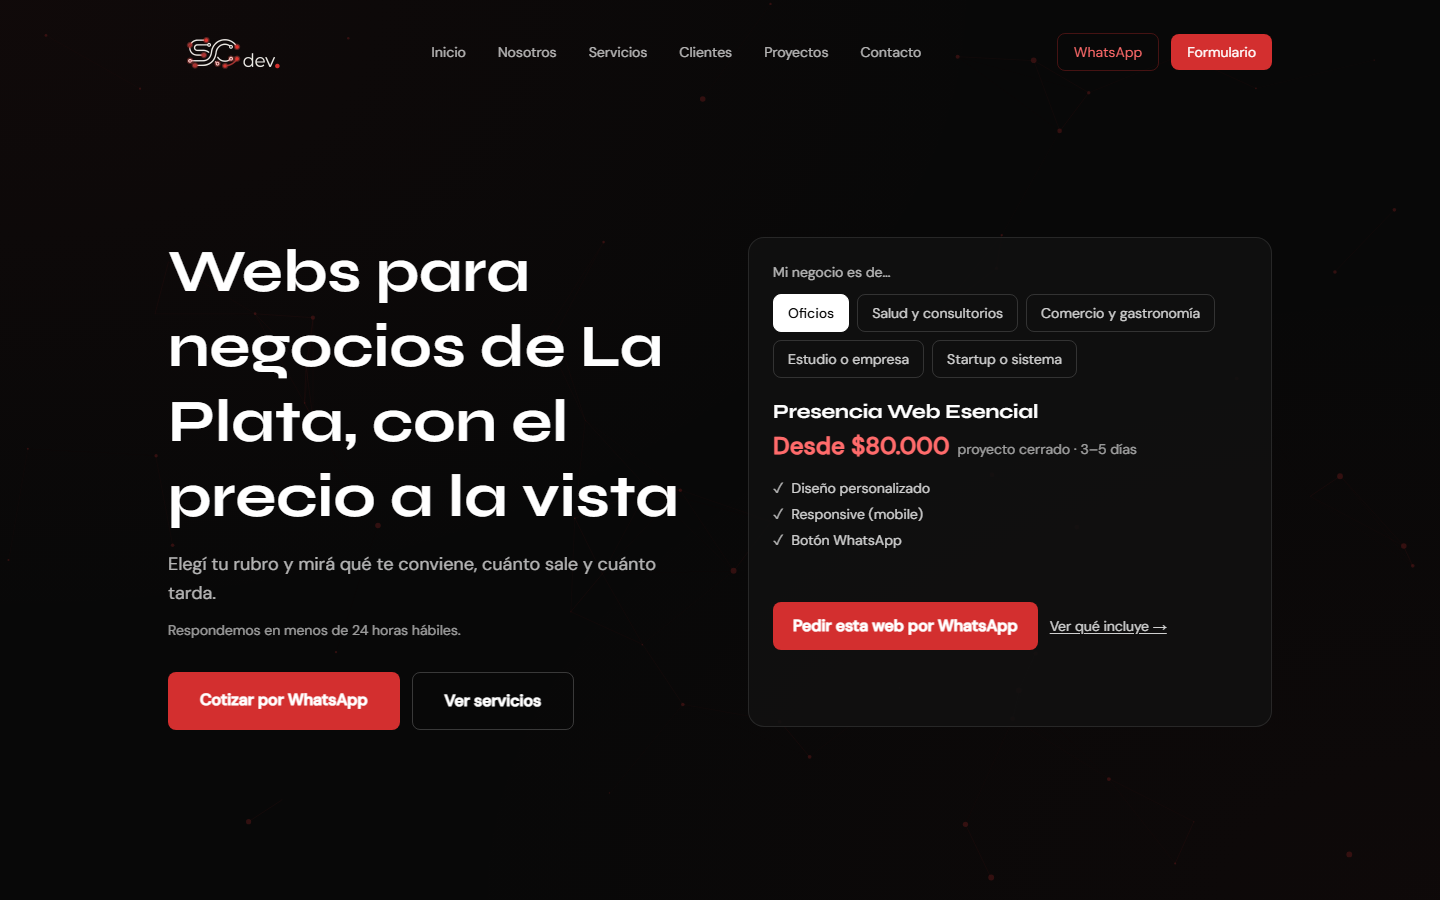
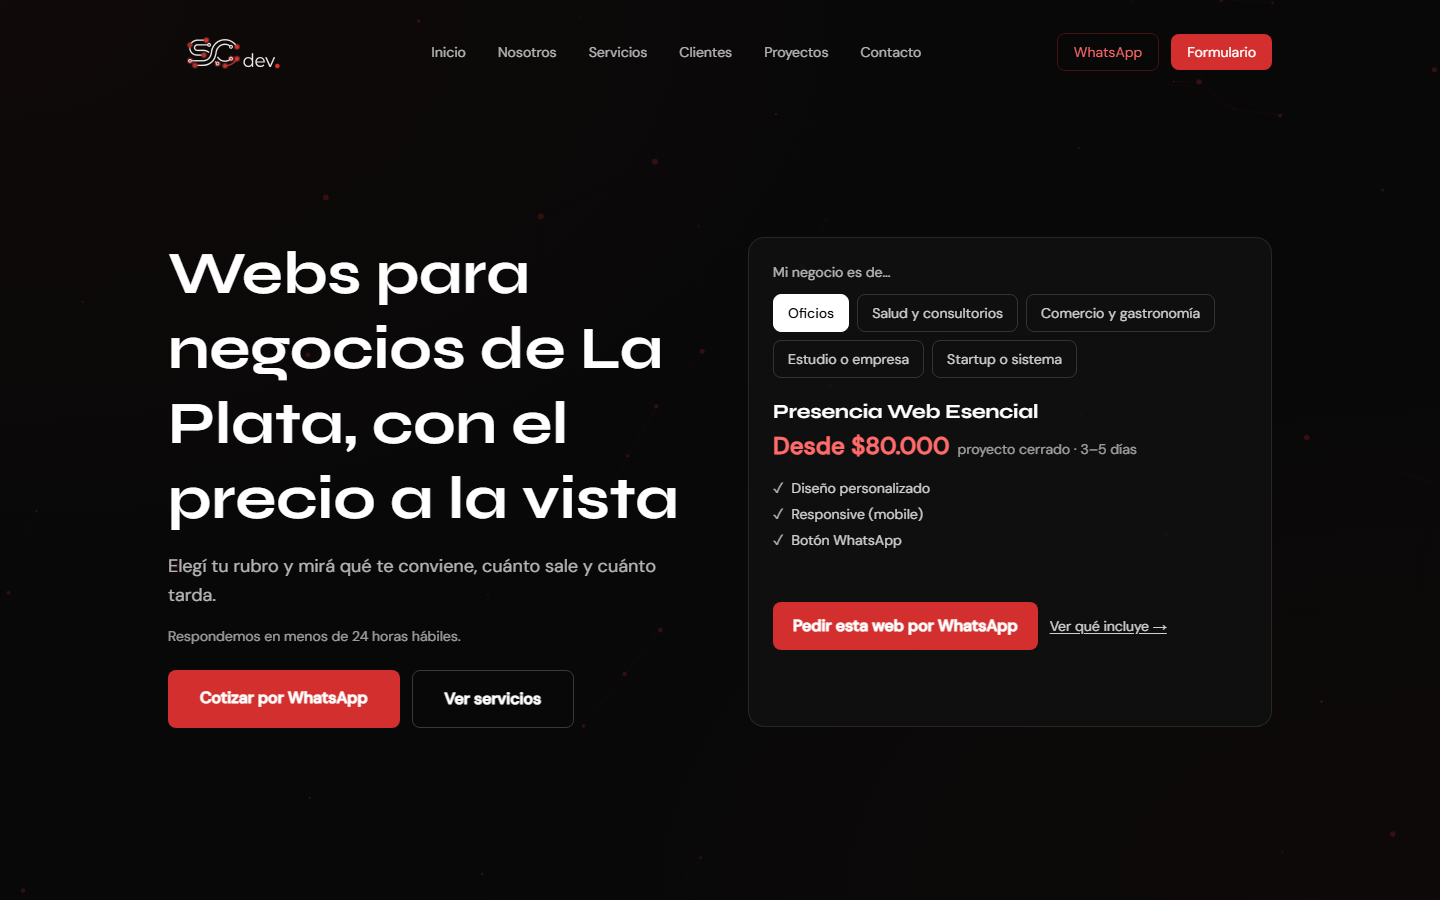
feat(c3): hero móvil con selector visible sin scroll en 375x667; botones del hero solo en escritorio

diff --git a/src/components/ui/HeroSelector.tsx b/src/components/ui/HeroSelector.tsx
@@ -38,9 +38,9 @@ export default function HeroSelector() {
   }
 
   return (
-    <div className="rounded-2xl border border-white/10 bg-[#111111]/90 p-5 md:p-6">
-      <p id="rubro-label" className="text-sm text-white/70 mb-3">Mi negocio es de…</p>
-      <div role="radiogroup" aria-labelledby="rubro-label" onKeyDown={onKeyDown} className="flex flex-wrap gap-2 mb-5">
+    <div className="rounded-2xl border border-white/10 bg-[#111111]/90 p-4 md:p-6">
+      <p id="rubro-label" className="text-sm text-white/70 mb-2 md:mb-3">Mi negocio es de…</p>
+      <div role="radiogroup" aria-labelledby="rubro-label" onKeyDown={onKeyDown} className="flex flex-wrap gap-1.5 md:gap-2 mb-3 md:mb-5">
         {RUBROS.map((r, i) => {
           const activo = i === idx
           return (
@@ -52,7 +52,7 @@ export default function HeroSelector() {
               aria-checked={activo}
               tabIndex={activo ? 0 : -1}
               onClick={() => elegir(i)}
-              className={`px-3.5 py-2 rounded-lg text-sm border transition-colors duration-200 ${
+              className={`px-3 py-1.5 md:px-3.5 md:py-2 rounded-lg text-sm border transition-colors duration-200 ${
                 activo
                   ? 'bg-white text-[#0a0a0a] border-white font-medium'
                   : 'text-white/80 border-white/15 hover:border-white/40'
@@ -65,14 +65,14 @@ export default function HeroSelector() {
       </div>
 
       {/* Alto mínimo fijo: cambiar de rubro no mueve el resto de la página. */}
-      <div aria-live="polite" className="min-h-[21rem] sm:min-h-[19rem]">
+      <div aria-live="polite" className="min-h-[13rem] sm:min-h-[19rem]">
         <div key={rubro.id} className="hero-fade">
           <p className="text-xl font-bold font-[family-name:var(--font-display)] mb-1">{servicio.nombre}</p>
           <p className="mb-4">
             <span className="text-2xl font-bold text-accent-text">Desde {desde}</span>
-            <span className="text-sm text-white/60 ml-2">{servicio.precioTipo} · {servicio.tiempo}</span>
+            <span className="block sm:inline text-sm text-white/60 sm:ml-2">{servicio.precioTipo} · {servicio.tiempo}</span>
           </p>
-          <ul className="space-y-1.5 mb-4 text-sm text-white/80">
+          <ul className="hidden sm:block space-y-1.5 mb-4 text-sm text-white/80">
             {servicio.incluye.slice(0, 3).map((it) => (
               <li key={it.titulo} className="flex gap-2">
                 <span aria-hidden="true" className="text-white/70">✓</span>

diff --git a/src/components/sections/Hero.tsx b/src/components/sections/Hero.tsx
@@ -17,21 +17,27 @@ export default function Hero() {
         <ParticlesBackground />
       </div>
 
-      <div className="relative z-10 max-w-6xl mx-auto w-full px-6 pt-32 pb-16 grid lg:grid-cols-2 gap-10 lg:gap-14 items-center">
-        <div>
-          <h1
-            className="hero-in font-bold leading-tight mb-4"
-            style={{ fontSize: 'clamp(2rem, 5.5vw, 3.75rem)', ...delay(0) }}
-          >
-            Webs para negocios de La Plata, con el precio a la vista
-          </h1>
-          <p className="hero-in text-white/70 text-lg max-w-xl mb-3 leading-relaxed" style={delay(1)}>
-            Elegí tu rubro y mirá qué te conviene, cuánto sale y cuánto tarda.
-          </p>
-          <p className="hero-in text-white/60 text-sm mb-8" style={delay(2)}>
+      <div className="relative z-10 max-w-6xl mx-auto w-full px-6 pt-24 pb-10 md:pt-32 md:pb-16 grid lg:grid-cols-2 lg:grid-rows-[auto_auto_auto] gap-x-14 gap-y-4 lg:content-center">
+        {/* Móvil: H1, sub, selector, resto. Escritorio: texto a la izquierda, selector a la derecha. */}
+        <h1
+          className="hero-in font-bold leading-tight lg:mb-0 lg:self-end"
+          style={{ fontSize: 'clamp(1.75rem, 5.5vw, 3.75rem)', ...delay(0) }}
+        >
+          Webs para negocios de La Plata, con el precio a la vista
+        </h1>
+        <p className="hero-in text-white/70 text-base md:text-lg max-w-xl leading-relaxed" style={delay(1)}>
+          Elegí tu rubro y mirá qué te conviene, cuánto sale y cuánto tarda.
+        </p>
+
+        <div className="hero-in lg:col-start-2 lg:row-start-1 lg:row-span-3 lg:self-center" style={delay(4)}>
+          <HeroSelector />
+        </div>
+
+        <div className="lg:self-start">
+          <p className="hero-in text-white/60 text-sm md:mb-6" style={delay(2)}>
             Respondemos en menos de 24 horas hábiles.
           </p>
-          <div className="hero-in flex flex-col sm:flex-row gap-3" style={delay(3)}>
+          <div className="hero-in hidden md:flex flex-row gap-3" style={delay(3)}>
             <a
               href={waLink}
               target="_blank"
@@ -48,10 +54,6 @@ export default function Hero() {
               Ver servicios
             </a>
           </div>
-        </div>
-
-        <div className="hero-in" style={delay(4)}>
-          <HeroSelector />
         </div>
       </div>
     </section>
